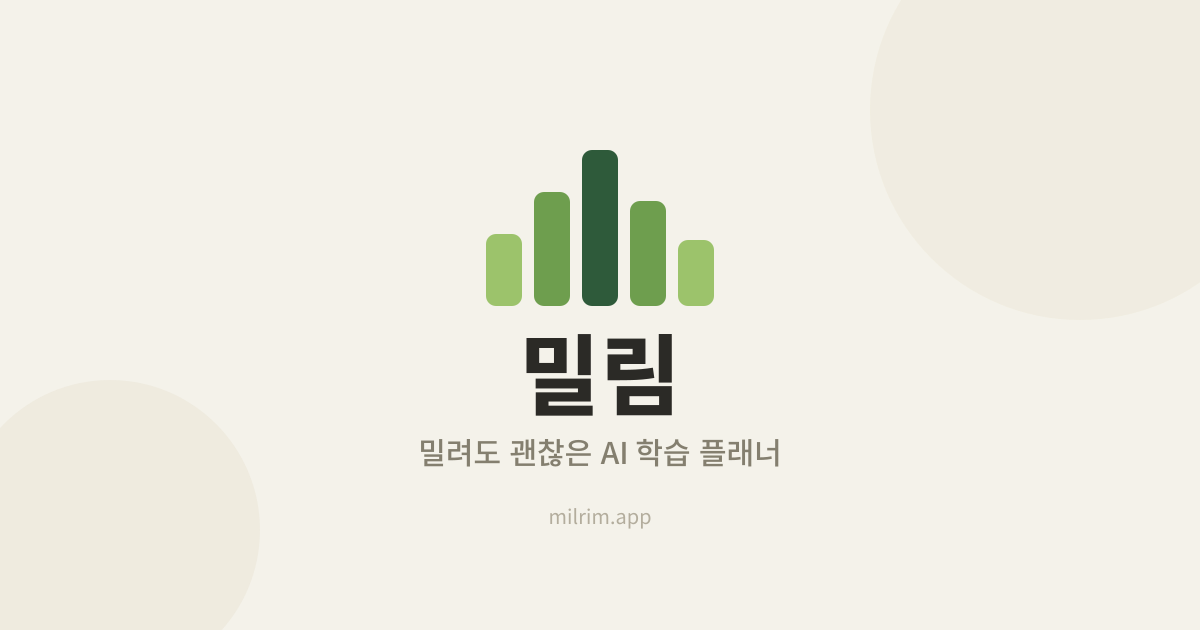
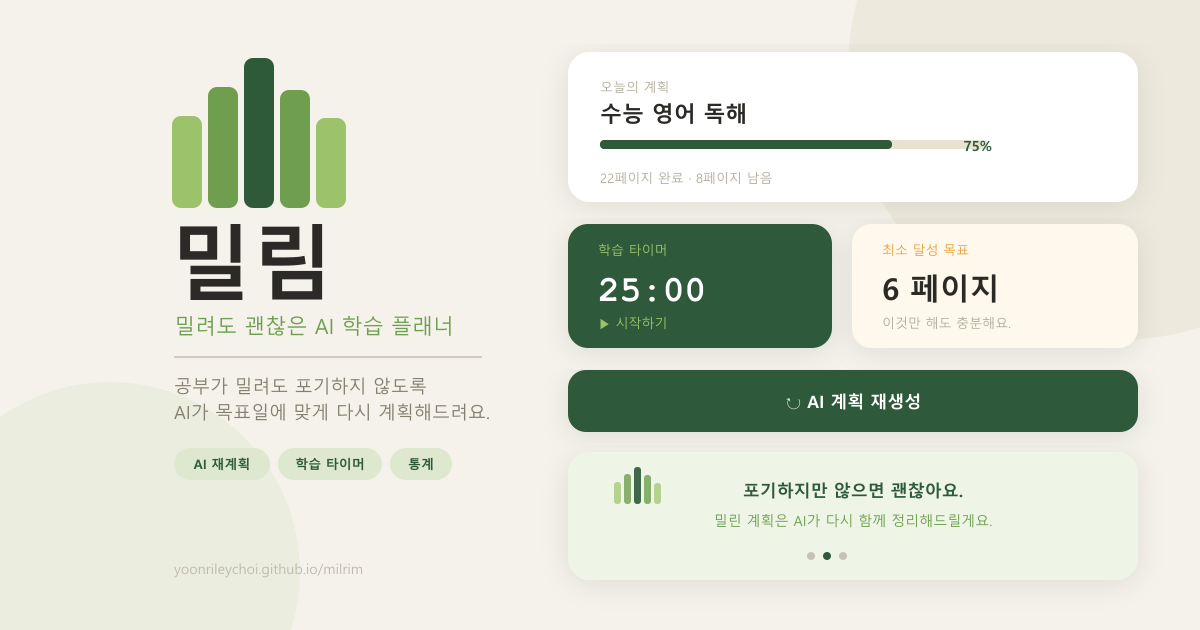
feat: OG 이미지 재디자인, 파비콘 캐시 수정, 사이드바 계획 재생성 경로 수정

diff --git a/index.html b/index.html
@@ -2,7 +2,7 @@
 <html lang="ko">
   <head>
     <meta charset="UTF-8" />
-    <link rel="icon" type="image/svg+xml" href="/favicon.svg" />
+    <link rel="icon" type="image/svg+xml" href="/favicon.svg?v=2" />
     <meta name="viewport" content="width=device-width, initial-scale=1.0" />
     <title>밀림 — 밀려도 괜찮은 AI 학습 플래너</title>
     <!-- Open Graph -->

diff --git a/src/components/Sidebar.tsx b/src/components/Sidebar.tsx
@@ -53,7 +53,7 @@ export default function Sidebar() {
       <div style={{ flex: 1 }} />
 
       <button
-        onClick={() => navigate('/replan')}
+        onClick={() => navigate('/plan')}
         style={{
           display: 'flex', alignItems: 'center', justifyContent: 'center', gap: 8,
           border: 'none', background: 'var(--primary)', color: '#fff',

diff --git a/scripts/gen-og.js b/scripts/gen-og.js
@@ -1,0 +1,6 @@
+import { readFileSync } from 'fs'
+import sharp from 'sharp'
+
+const svg = readFileSync('./public/og.svg')
+await sharp(svg).png().toFile('./public/og.png')
+console.log('og.png generated (1200x630)')

diff --git a/devlog/2026-06-22.md b/devlog/2026-06-22.md
@@ -96,3 +96,24 @@
 **BottomNav.tsx** — 중앙 "AI 계획 수정" 플로팅 버튼 목적지를 `/replan` → `/plan`으로 변경
 
 ---
+
+### 7. 사이드바 "계획 재생성" 버튼 목적지 수정 (`Sidebar.tsx`)
+
+- 데스크톱 사이드바의 "계획 재생성" 버튼 클릭 시 `/replan` → `/plan`으로 변경 (BottomNav와 동일하게 통일)
+
+---
+
+### 8. OG 이미지 재디자인 (`public/og.svg`, `public/og.png`, `scripts/gen-og.js`)
+
+- 기존: 로고·텍스트만 있는 단순 중앙 배치
+- 변경: 좌측 브랜드 아이덴티티 + 우측 앱 UI 목업 (계획 카드·타이머·최소 목표·AI 재계획 버튼·격려 문구)
+- sharp로 SVG → PNG 변환 (`scripts/gen-og.js`)
+
+---
+
+### 9. 파비콘 캐시 버그 수정 (`index.html`)
+
+- Chrome이 Vite 개발서버의 보라색 번개 파비콘을 캐싱하는 문제
+- `href="/favicon.svg?v=2"` 버전 파라미터 추가로 강제 재요청
+
+---
